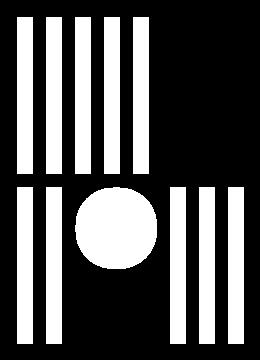
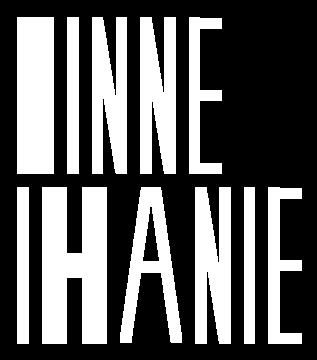
plus les lettre H, A, N, E

diff --git a/src/main/java/Letter/LetterFactory.java b/src/main/java/Letter/LetterFactory.java
@@ -9,7 +9,7 @@ public final class LetterFactory {
     final static Double halfMaxHeight = maxHeight / 2;
     final static Double halfMaxWidth = maxWidth / 2;
     final static Double stripeThickness = maxHeight / 8;
-    final static Double halfStripeThickness = stripeThickness / 2;
+    final static Double halfStripeThickness = stripeThickness / 4;
 
 
     /** TODO
@@ -17,9 +17,25 @@ public final class LetterFactory {
      * @return BaseShape containing the letter A
      */
     public static BaseShape create_A()  {
-        Circle r1 = new Circle(halfMaxHeight);
-        Rectangle r2 = new Rectangle(halfStripeThickness, maxHeight);
-        return r1;
+        Rectangle rectangle1 = new Rectangle(halfStripeThickness, maxHeight);
+        Rectangle rectangle2 = new Rectangle(halfStripeThickness, maxHeight);
+        Rectangle rectangle3 = new Rectangle(stripeThickness, halfStripeThickness);
+
+
+        Point2d point1 = new Point2d(-15.0, 0.0);
+        Point2d point2 = new Point2d(15.0, 0.0);
+        Point2d point3 = new Point2d(0.0, 0.0);
+
+        double angle1 = Math.toRadians(8);
+        double angle2 = Math.toRadians(-8);
+
+        rectangle1.translate(rectangle1.getCoords(), point1);
+        rectangle1.rotate(rectangle1.getCoords(), angle1 );
+        rectangle2.translate(rectangle2.getCoords(), point2);
+        rectangle2.rotate(rectangle2.getCoords(), angle2 );
+        rectangle3.translate(rectangle3.getCoords(), point3);
+
+        return rectangle1.add(rectangle2).add(rectangle3);
 
     }
 
@@ -28,7 +44,7 @@ public final class LetterFactory {
      * @return BaseShape containing the letter B
      */
     public static BaseShape create_B() {
-        return  new Rectangle(halfStripeThickness, maxHeight);
+        return  new Rectangle(halfMaxWidth, maxHeight);
     }
 
     /** TODO
@@ -44,7 +60,21 @@ public final class LetterFactory {
      * @return BaseShape containing the letter E
      */
     public static BaseShape create_E() {
-        return  new Rectangle(halfStripeThickness, maxHeight);
+        Rectangle rectangle1 = new Rectangle(halfStripeThickness, maxHeight);
+        Rectangle rectangle2 = new Rectangle(stripeThickness, halfStripeThickness);
+        Rectangle rectangle3 = new Rectangle(stripeThickness, halfStripeThickness);
+        Rectangle rectangle4 = new Rectangle(stripeThickness, halfStripeThickness);
+
+        Point2d point1 = new Point2d(15.0, 0.0);
+        Point2d point2 = new Point2d(15.0, 73.0);
+        Point2d point3 = new Point2d(15.0, -72.0);
+
+        rectangle2.translate(rectangle2.getCoords(), point1);
+        rectangle3.translate(rectangle3.getCoords(), point2);
+        rectangle4.translate(rectangle4.getCoords(), point3);
+
+
+        return ((rectangle1.add(rectangle2)).add(rectangle3)).add(rectangle4);
     }
 
     /** TODO
@@ -52,7 +82,19 @@ public final class LetterFactory {
      * @return BaseShape containing the letter H
      */
     public static BaseShape create_H() {
-        return  new Rectangle(halfStripeThickness, maxHeight);
+        Rectangle rectangle1 = new Rectangle(stripeThickness, maxHeight);
+        Rectangle rectangle2 = new Rectangle(stripeThickness, maxHeight);
+        Rectangle rectangle3 = new Rectangle(stripeThickness, stripeThickness);
+
+        Point2d point1 = new Point2d(-20.0, 0.0);
+        Point2d point2 = new Point2d(20.0, 0.0);
+        Point2d point3 = new Point2d(0.0, 0.0);
+
+        rectangle1.translate(rectangle1.getCoords(), point1);
+        rectangle2.translate(rectangle2.getCoords(), point2);
+        rectangle3.translate(rectangle3.getCoords(), point3);
+
+        return rectangle1.add(rectangle2).add(rectangle3);
     }
 
     /** TODO
@@ -60,7 +102,20 @@ public final class LetterFactory {
      * @return BaseShape containing the letter N
      */
     public static BaseShape create_N() {
-        return  new Rectangle(halfStripeThickness, maxHeight);
+        Rectangle rectangle1 = new Rectangle(halfStripeThickness, maxHeight);
+        Rectangle rectangle2 = new Rectangle(halfStripeThickness, maxHeight);
+        Rectangle rectangle3 = new Rectangle(halfStripeThickness, maxHeight);
+
+
+        double angle = Math.toRadians(-9);
+        Point2d point1 = new Point2d(-12.0, 0.0);
+        Point2d point2 = new Point2d(12.0, 0.0);
+
+        rectangle1.translate(rectangle1.getCoords(), point1);
+        rectangle2.translate(rectangle2.getCoords(), point2);
+        rectangle3.rotate(rectangle3.getCoords(), angle);
+
+        return rectangle1.add(rectangle2).add(rectangle3);
     }
 
     /** TODO

diff --git a/src/main/java/Shape/BaseShape.java b/src/main/java/Shape/BaseShape.java
@@ -7,7 +7,7 @@ import java.util.*;
 import java.util.stream.Collectors;
 
 public class BaseShape extends Transform implements Cloneable {
-    private final Collection<Point2d> coords;
+    protected final Collection<Point2d> coords;
 
 //helper function to clone a list of points 
   public Collection<Point2d> cloneCoords(Collection<Point2d> coords) {
@@ -181,7 +181,5 @@ public class BaseShape extends Transform implements Cloneable {
     /**
      * @return Deep copy of the current shape
      */
-    public BaseShape clone() {
-        return new BaseShape(this.coords);
-    }
+    public BaseShape clone() {return new BaseShape(coords);}
 }

diff --git a/src/main/java/Shape/Rectangle.java b/src/main/java/Shape/Rectangle.java
@@ -40,5 +40,6 @@ public class Rectangle extends BaseShape {
      * @return Deep copy of the rectangle
      */
     @Override
-    public Rectangle clone() {return new Rectangle(this.getCoords());}
+    public Rectangle clone() {return new Rectangle(this.getCoords());
+    }
 }
